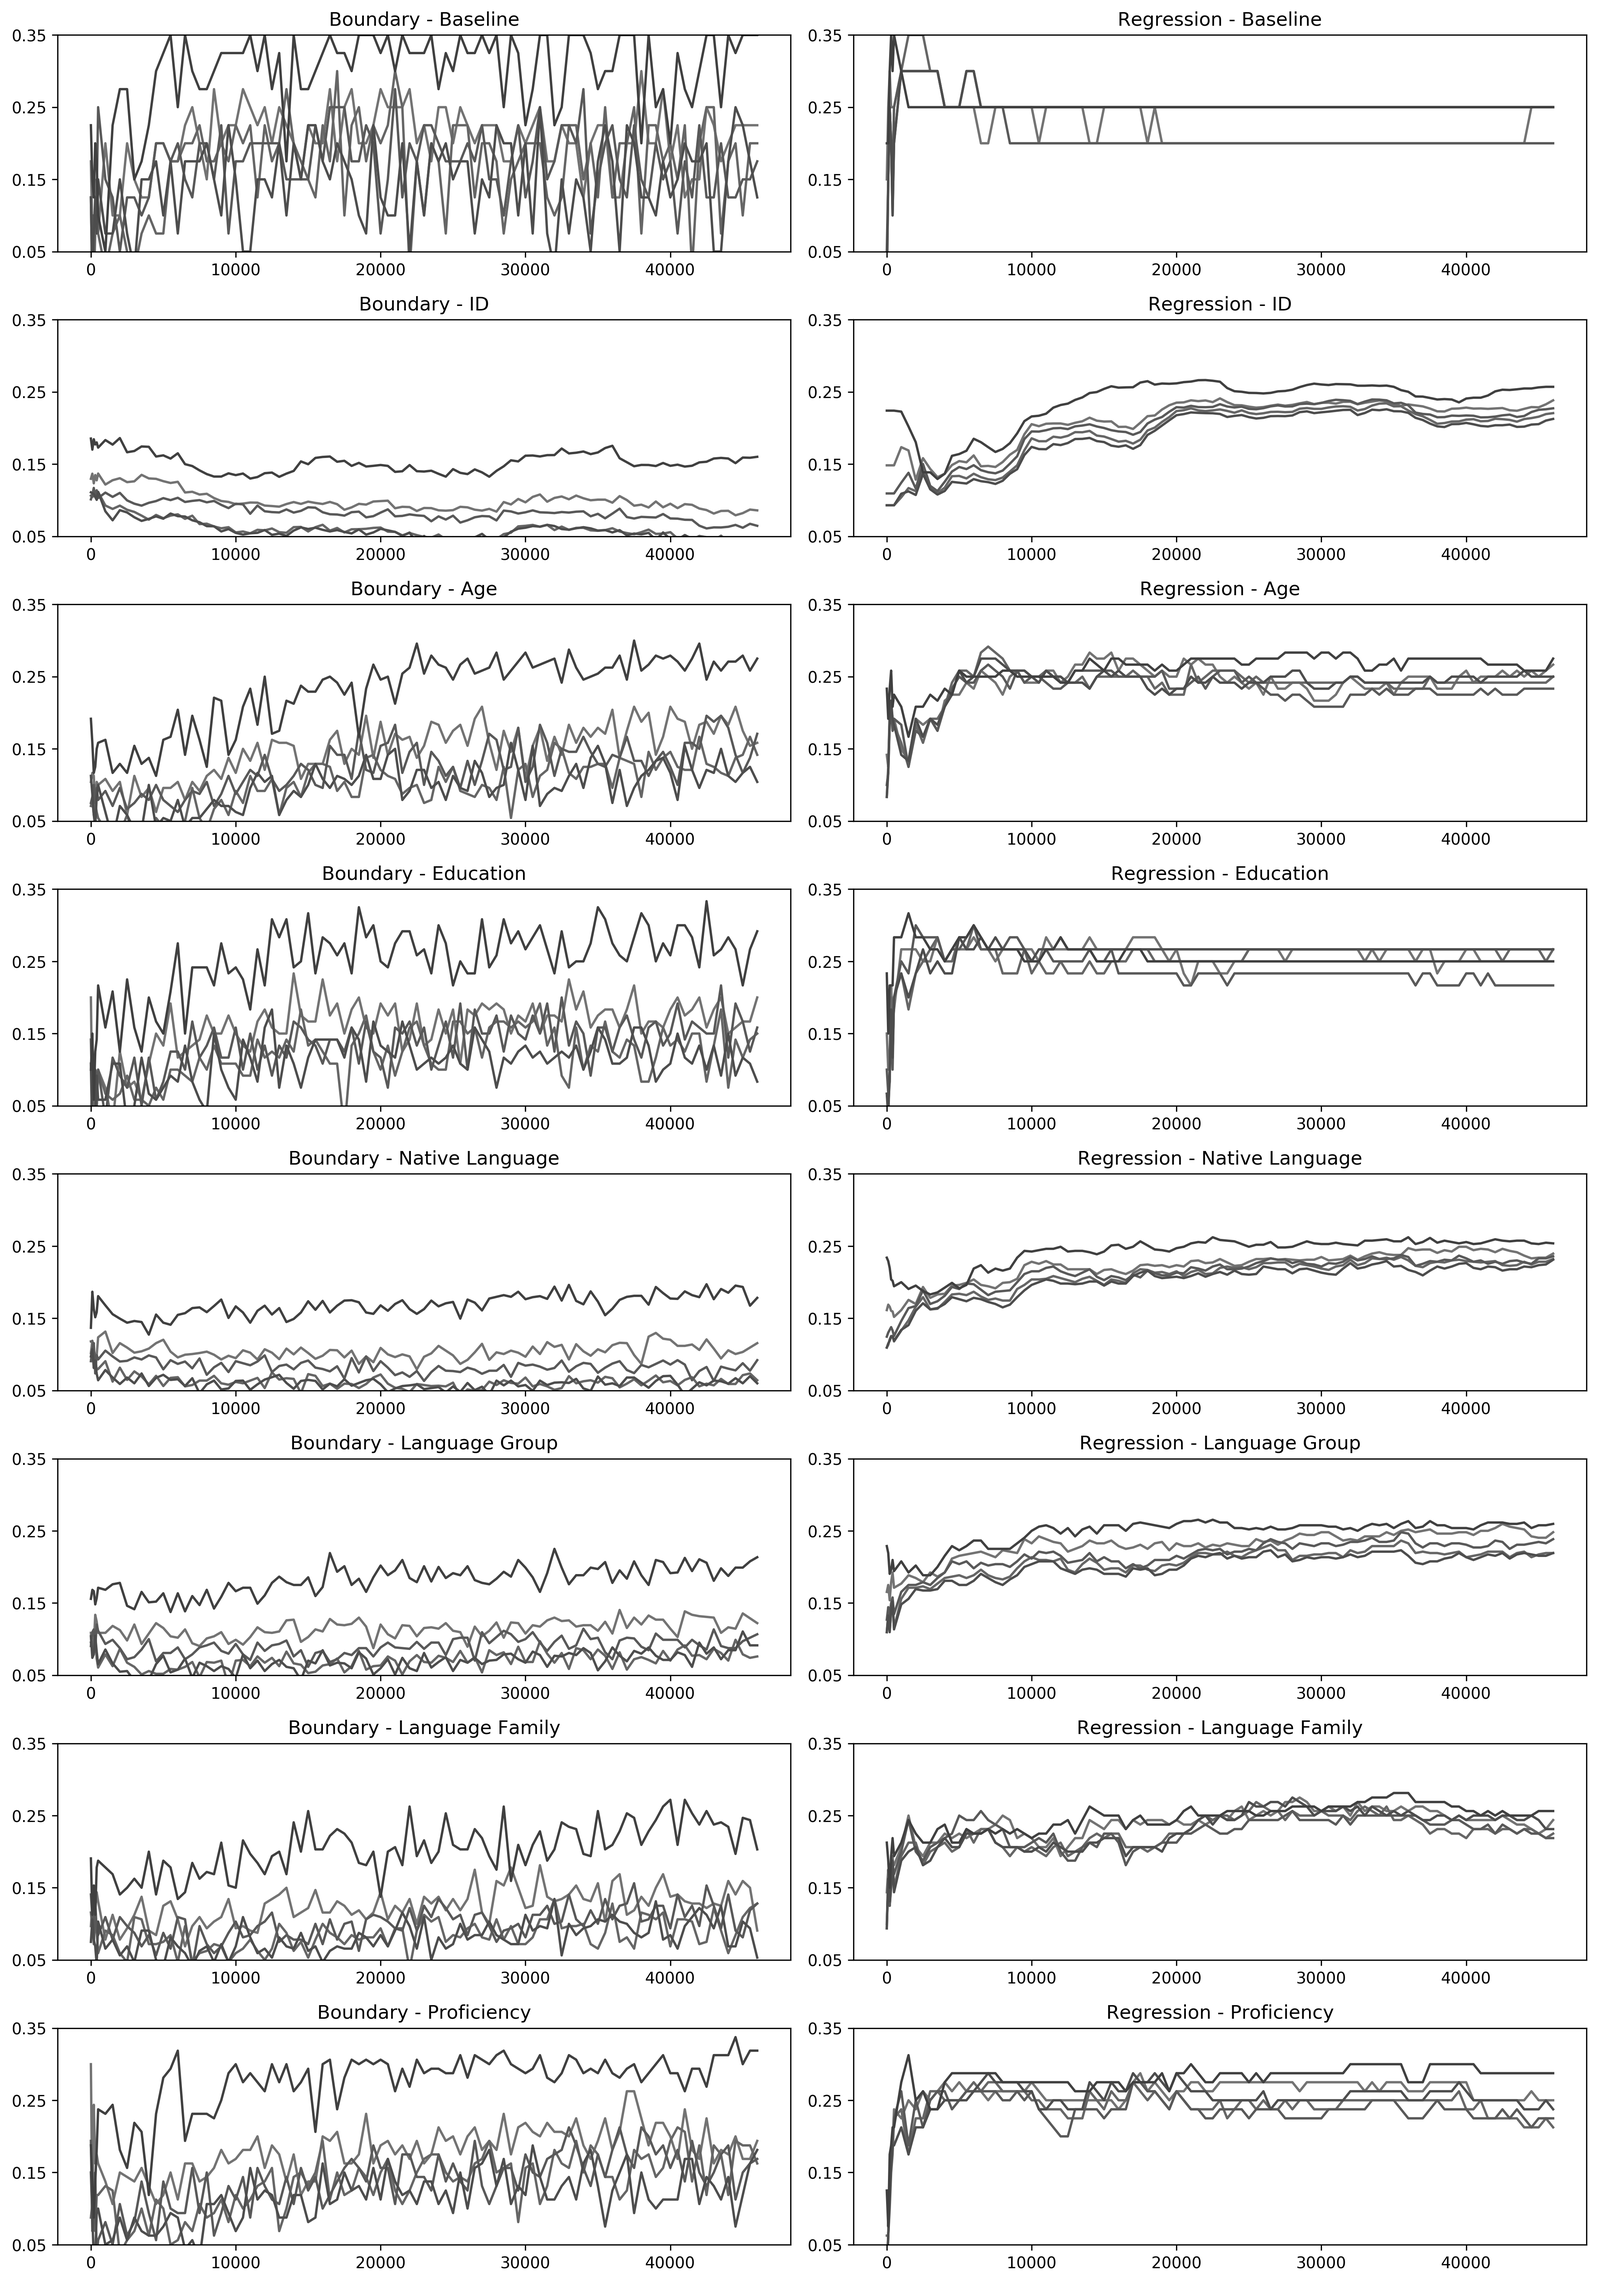
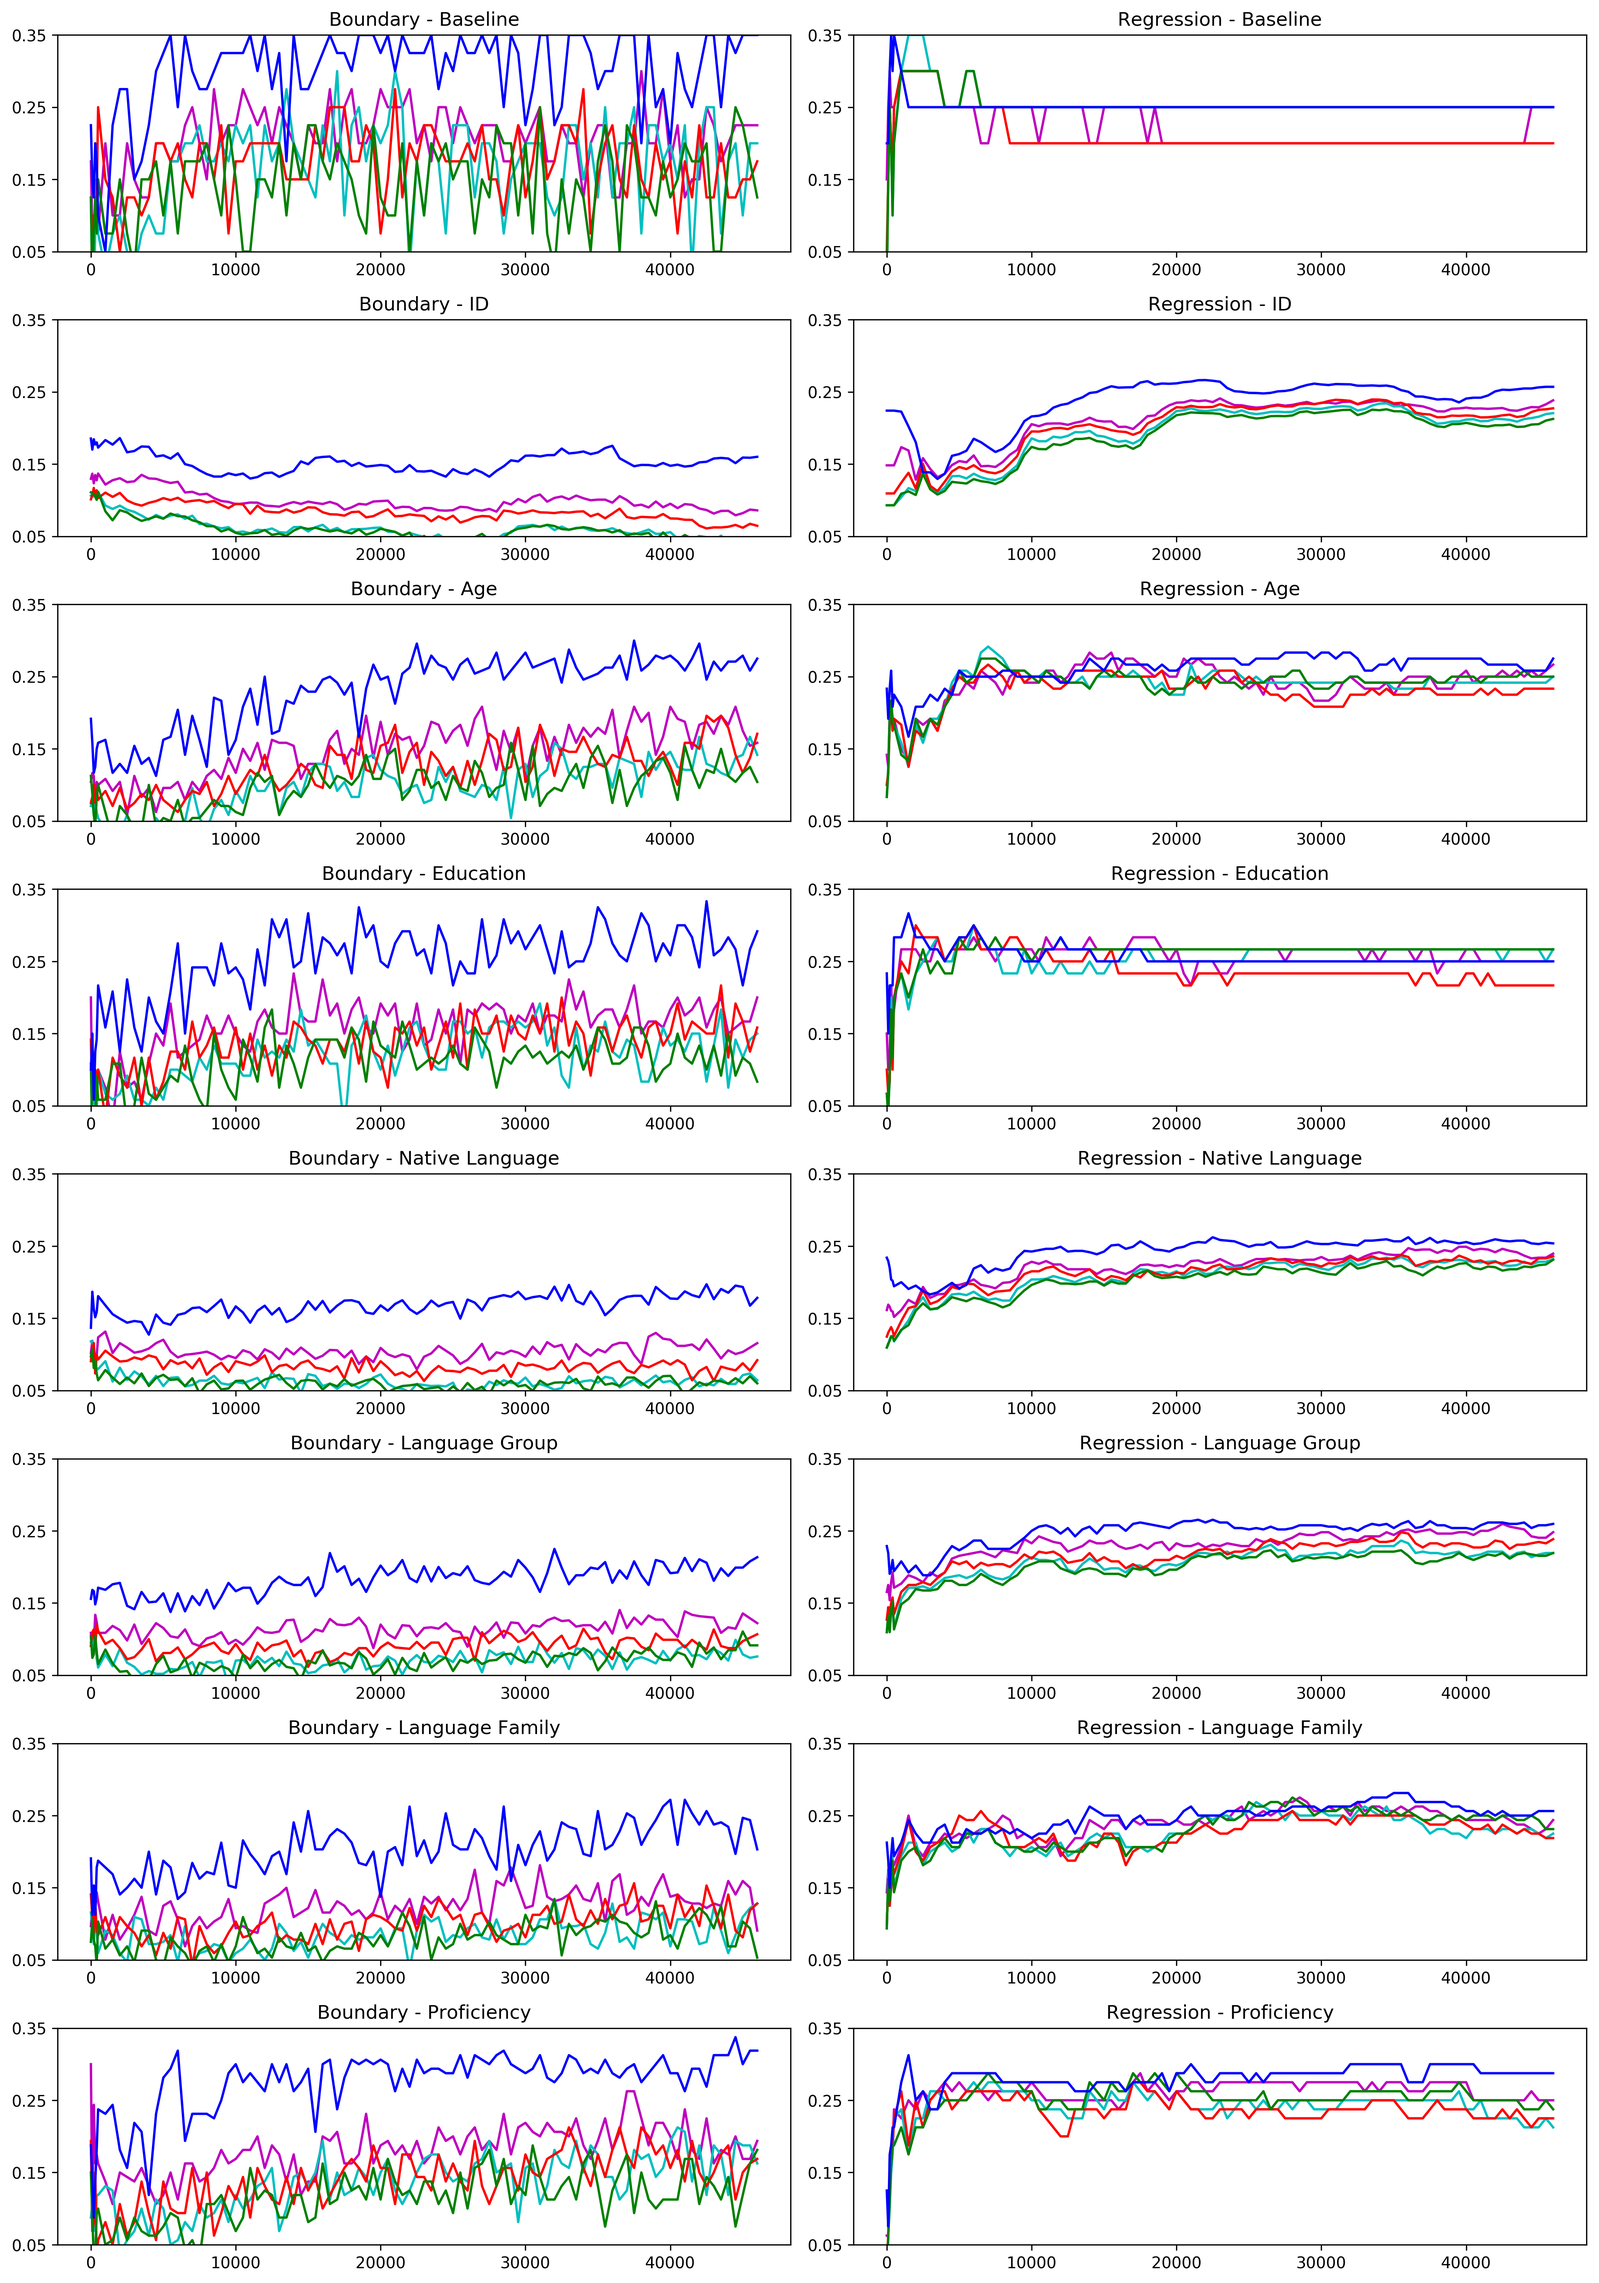
...

diff --git a/scripts/auxiliary/surveymonkey/generate_simplicity_graphs.py b/scripts/auxiliary/surveymonkey/generate_simplicity_graphs.py
@@ -75,7 +75,8 @@ for i, group in enumerate(allgroups):
 	yvalues = []
 	for j, ranker in enumerate(['boundary','ridge']):
 	#for j, ranker in enumerate(['ridge']):
-		colors = [(c, c, c) for c in [v/100.0 for v in range(10, 70, 5)]]
+		#colors = [(c, c, c) for c in [v/100.0 for v in range(10, 70, 5)]]
+		colors = list('bgrcmbgrcmbgrcmbgrcmbgrcm')
 		#fig.suptitle('Comparison between Boundary and Neural rankers')
 #		for prop in ['0.2', '0.4', '0.6', '0.8']:
 		for prop in map[ranker][group]:
@@ -105,6 +106,6 @@ for i, group in enumerate(allgroups):
 #plt.tight_layout()
 plt.tight_layout(pad=0.4, w_pad=0.8, h_pad=1.0)
 #plt.savefig('customized_results.png', dpi=150)
-plt.savefig('customized_results_new.png', dpi=300, bbox_inches='tight')
+plt.savefig('simplicity_accuracy_graphs.png', dpi=300, bbox_inches='tight')
 plt.show()
 plt.close()

diff --git a/scripts/auxiliary/surveymonkey/generate_randomvsproper_graphs.py b/scripts/auxiliary/surveymonkey/generate_randomvsproper_graphs.py
@@ -46,7 +46,7 @@ map = produceMap(performancesf)
 allgroups = ['individual','group-age','group-edu', 'group-lang', 'group-langg', 'group-langgg', 'group-prof']
 
 #Create figure
-fig, axes = plt.subplots(len(map['ridge'])-1, len(map),figsize=(7,20))
+fig, axes = plt.subplots(len(map['ridge'])-1, len(map),figsize=(10,20))
 for i, group in enumerate(allgroups):
 	for j, ranker in enumerate(['boundary','ridge']):
 			t, prob = ttest_ind(map[ranker][group]['random'], map[ranker][group]['normal'])
@@ -62,6 +62,5 @@ plt.setp(axes, yticks=[1, 2], yticklabels=['R', 'N'])
 #plt.tight_layout()
 plt.tight_layout(pad=0.4, w_pad=0.3, h_pad=1.0)
 plt.savefig('randomvsnormal_results.png', dpi=150)
-#plt.savefig('customized_results_new.png', dpi=300, bbox_inches='tight')
 plt.show()
 plt.close()

diff --git a/scripts/auxiliary/surveymonkey/generate_replacement_graphs.py b/scripts/auxiliary/surveymonkey/generate_replacement_graphs.py
@@ -75,7 +75,8 @@ for i, group in enumerate(allgroups):
 	yvalues = []
 	for j, ranker in enumerate(['boundary','ridge']):
 	#for j, ranker in enumerate(['ridge']):
-		colors = [(c, c, c) for c in [v/100.0 for v in range(5, 50, 5)]]
+		#colors = [(c, c, c) for c in [v/100.0 for v in range(5, 50, 5)]]
+		colors = list('bgrcmbgrcmbgrcmbgrcmbgrcm')
 		#fig.suptitle('Comparison between Boundary and Neural rankers')
 #		for prop in ['0.2', '0.4', '0.6', '0.8']:
 		for prop in map[ranker][group]:
